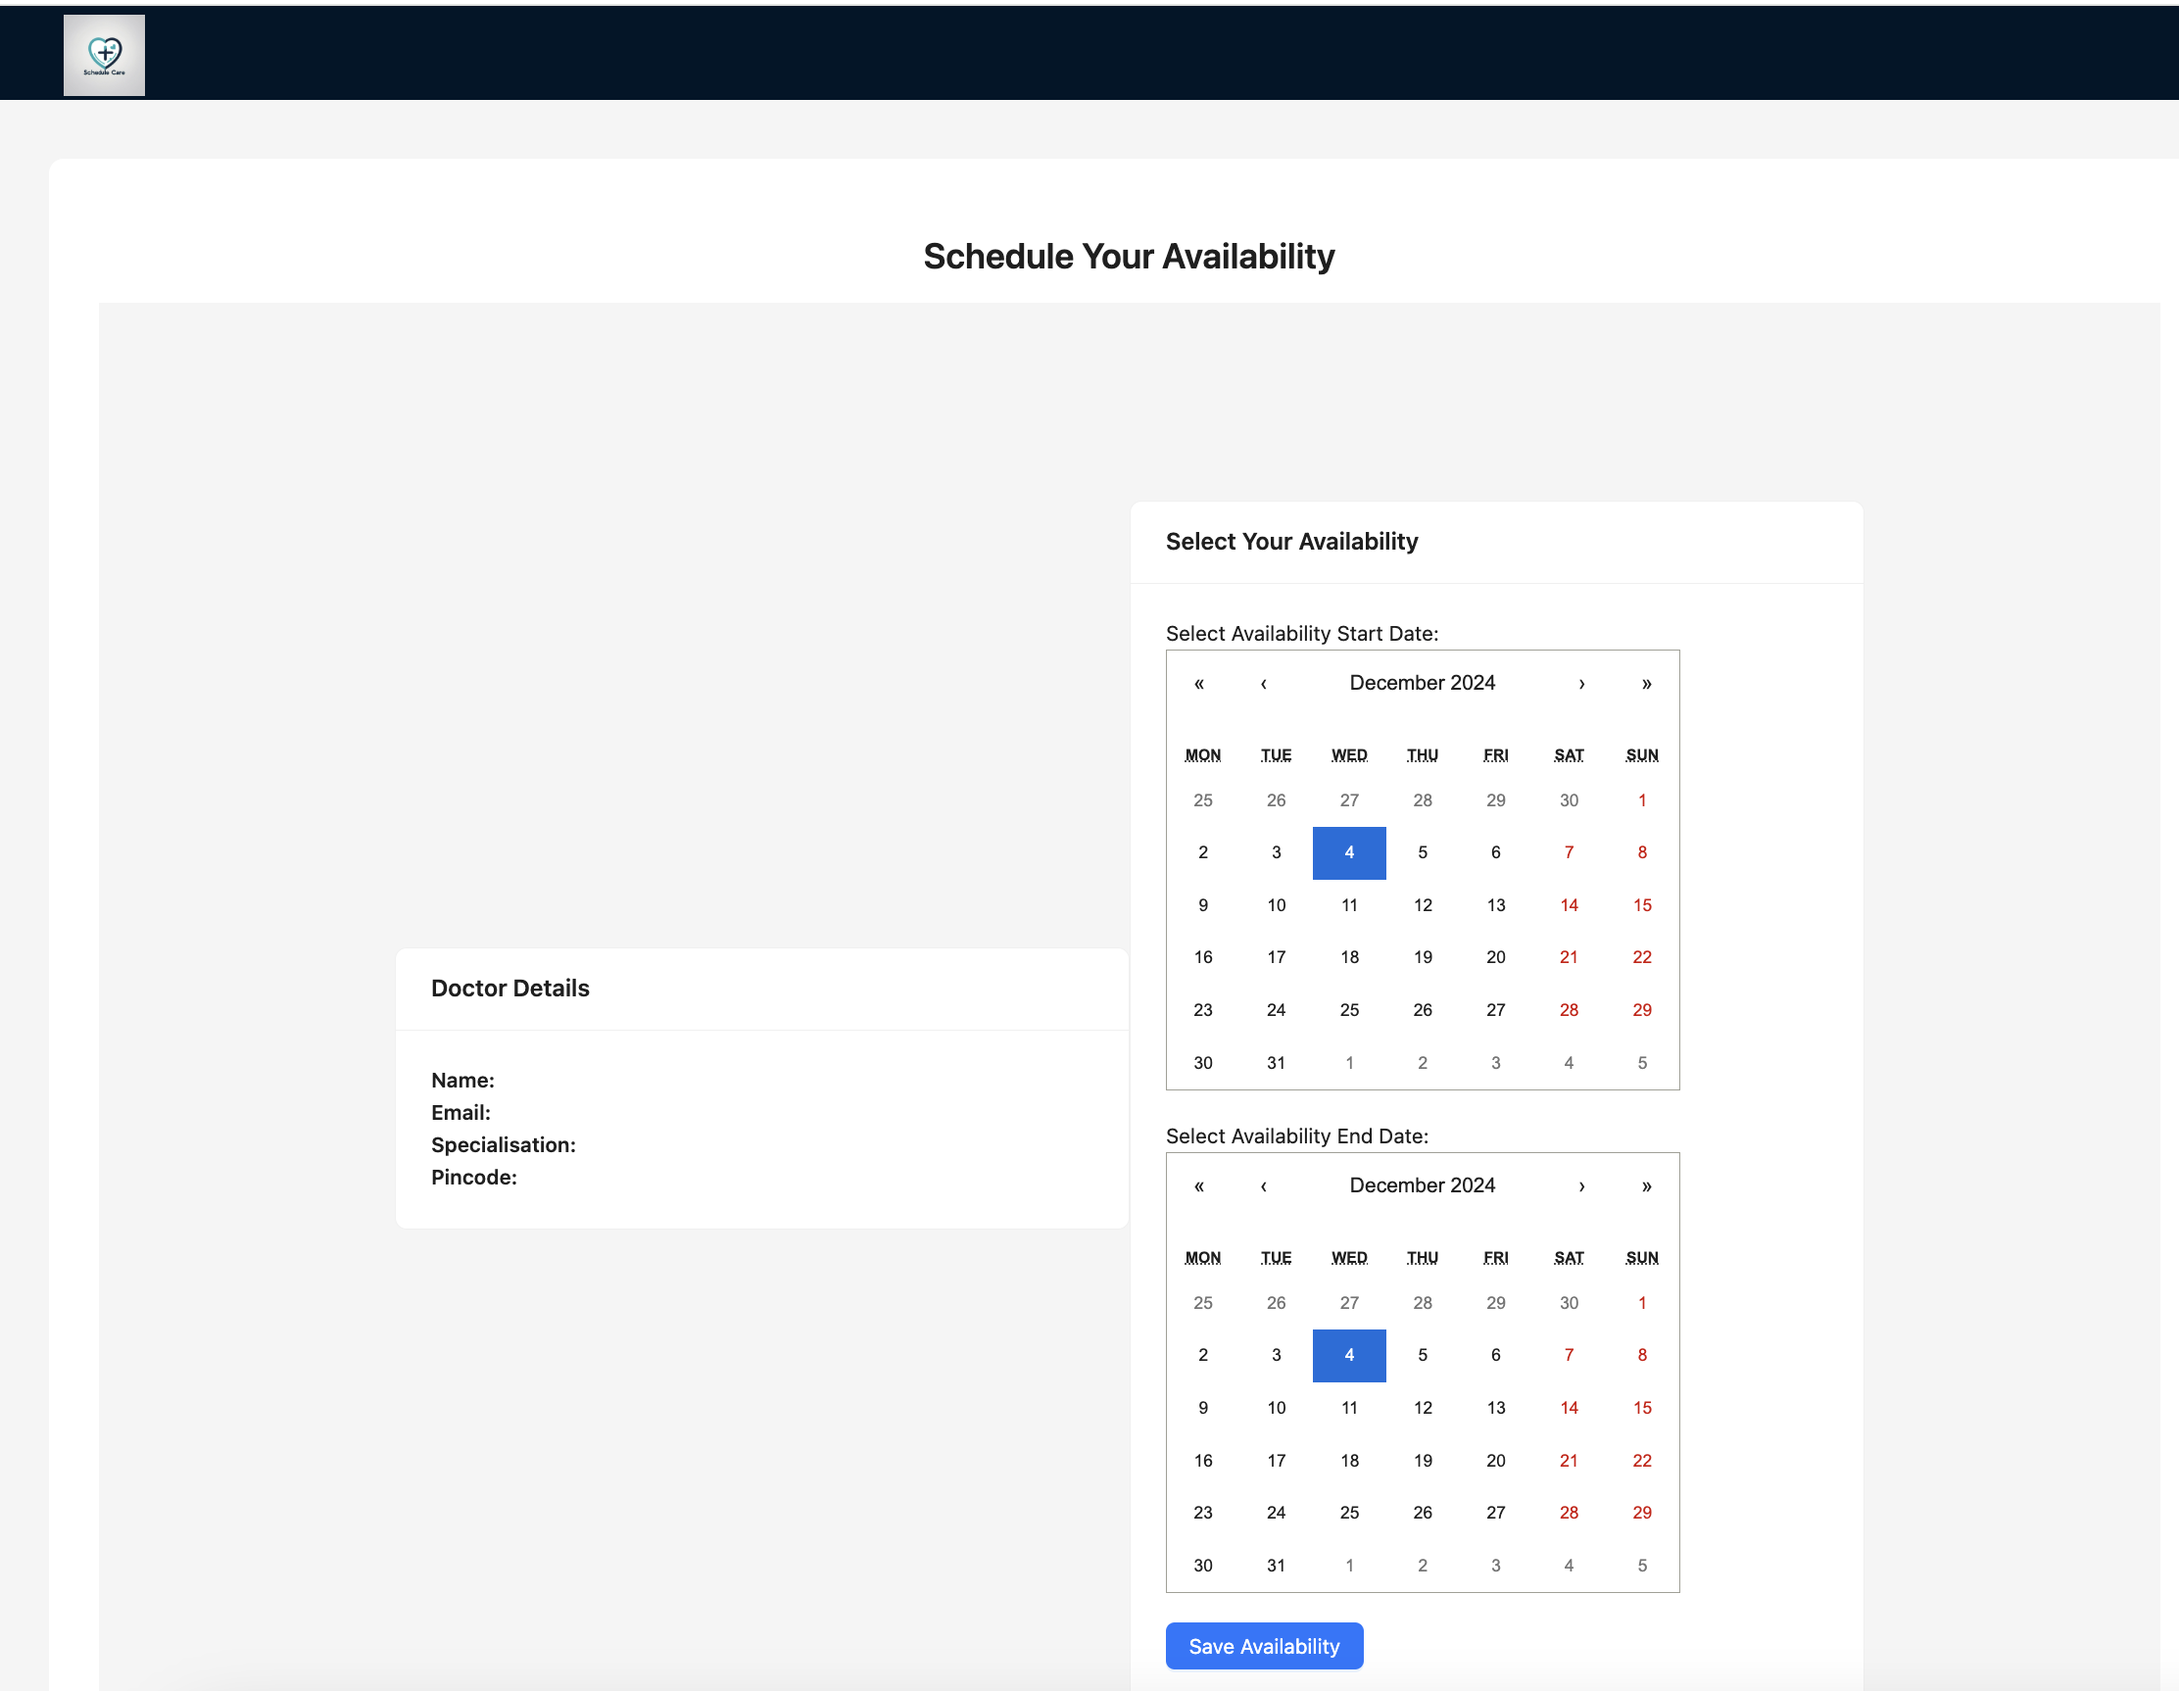
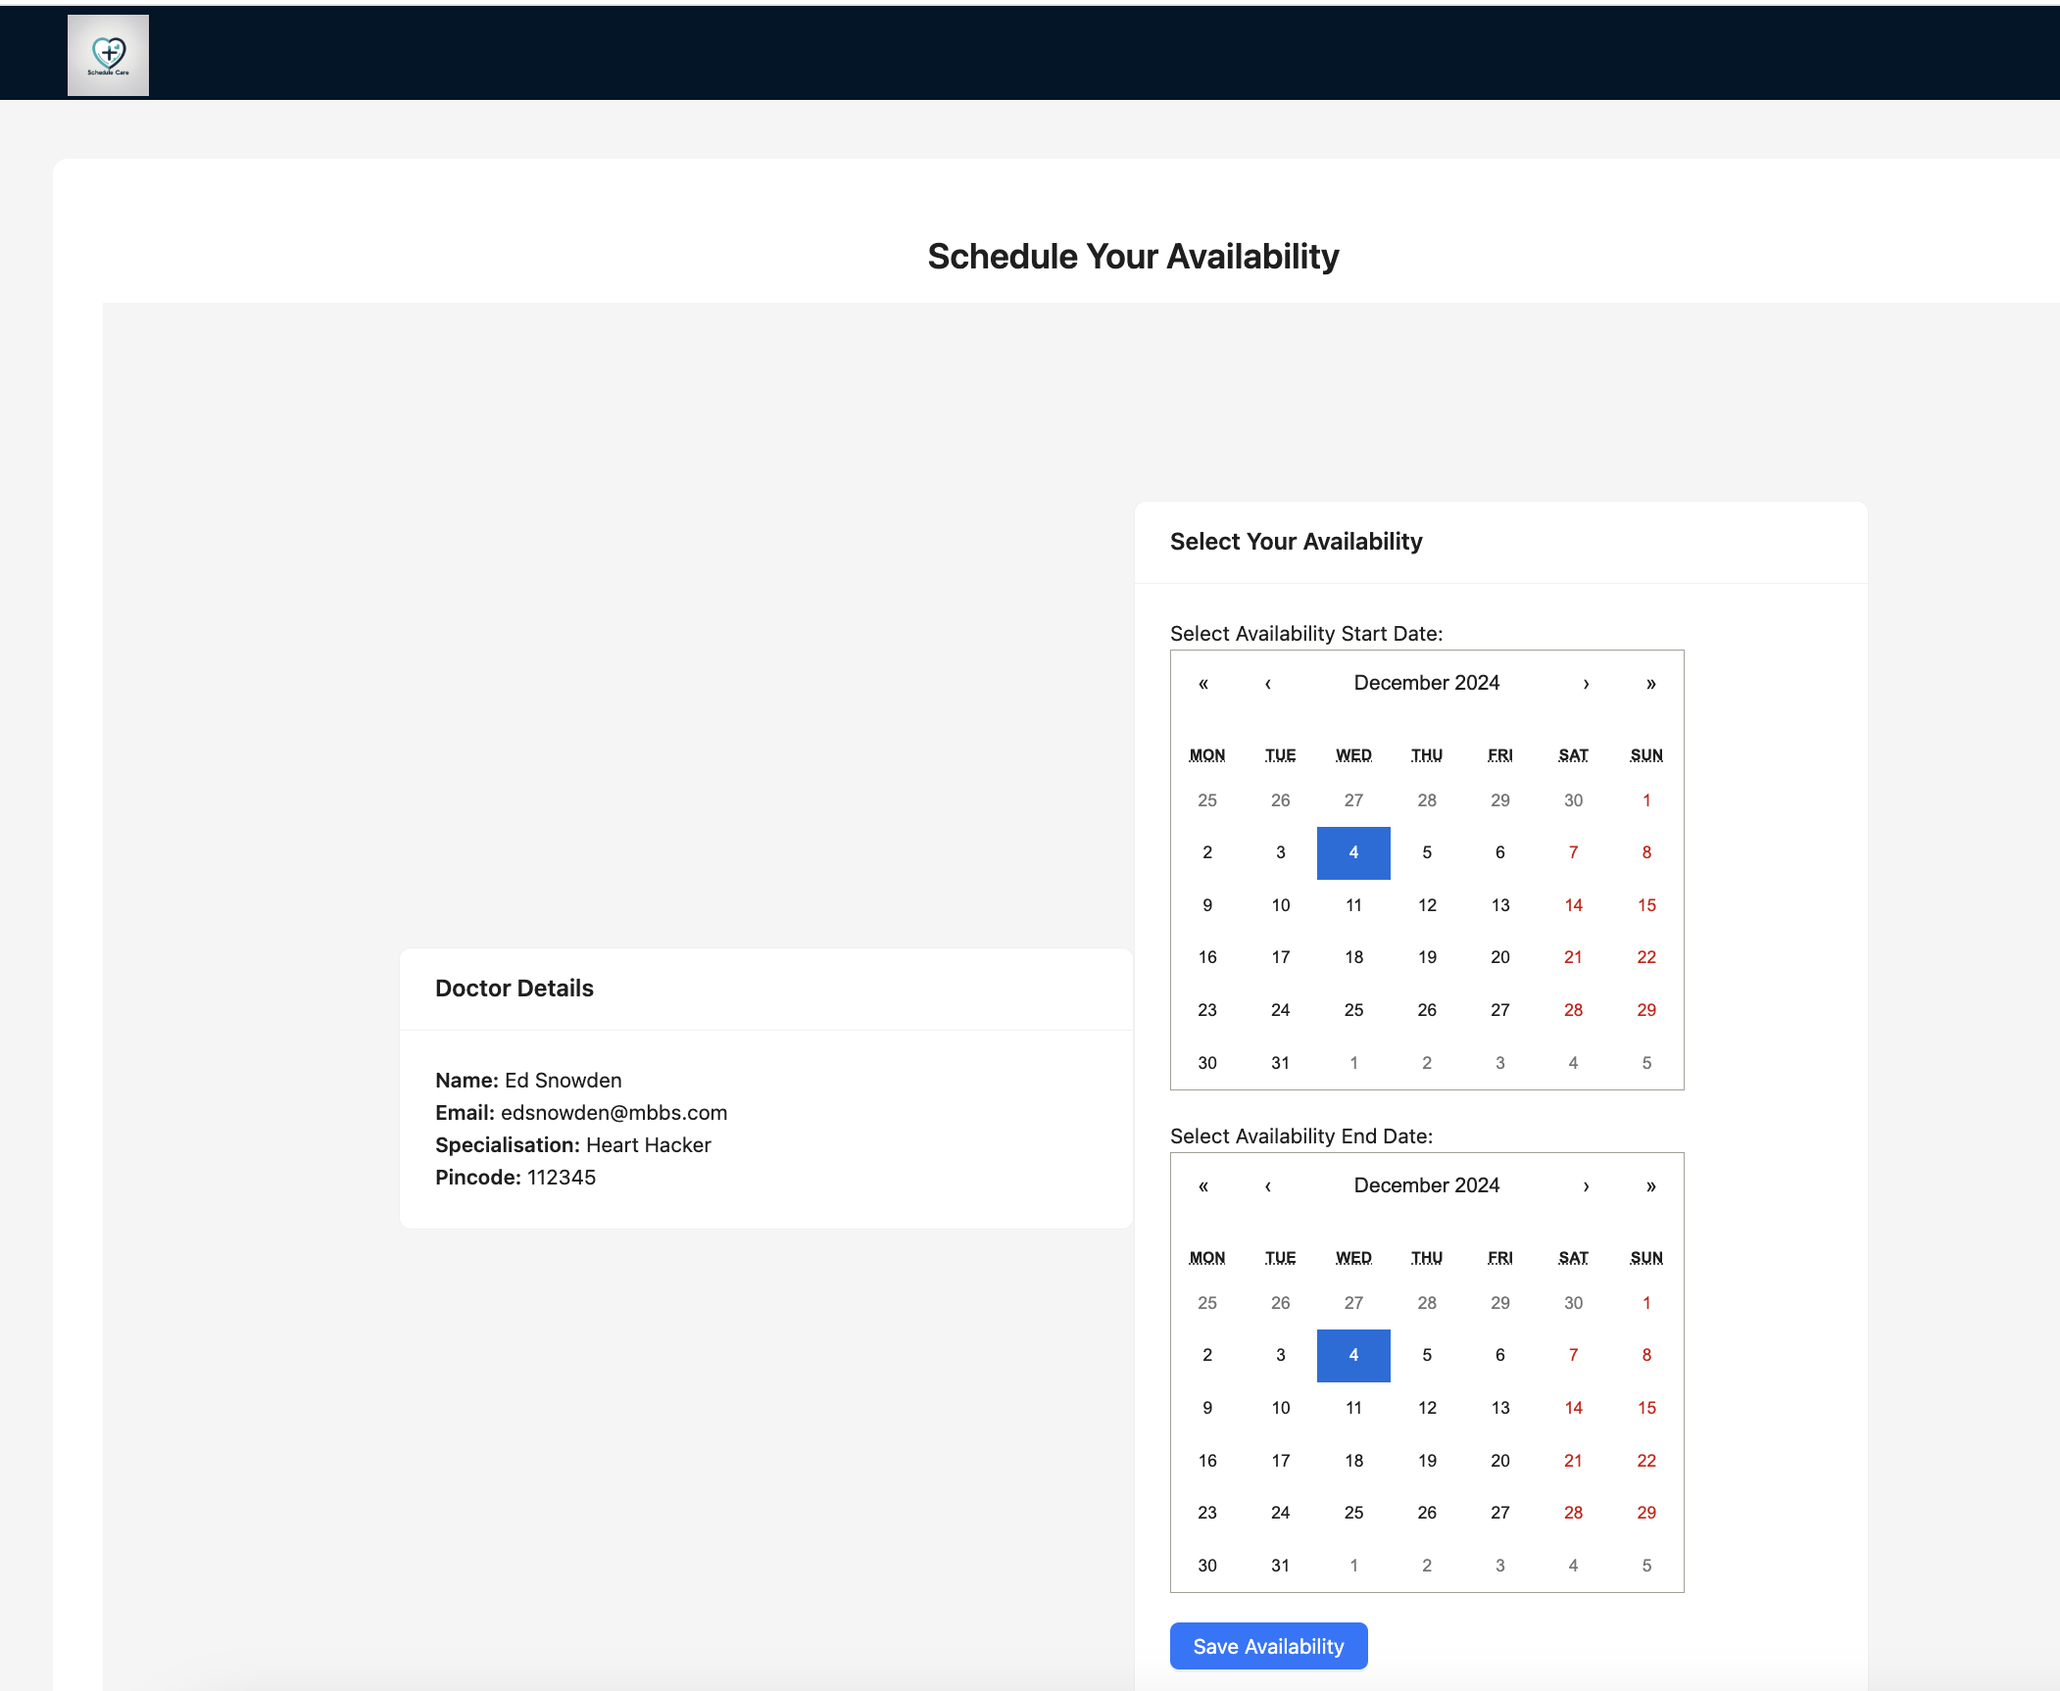
fixing endpoint

diff --git a/client/src/api/endpoint.js b/client/src/api/endpoint.js
@@ -15,5 +15,6 @@ export const ENDPOINTS = {
   chatAssistant: `${API_BASE_URL}/chat/generate`,
   setDoctorAvailability: `${API_BASE_URL}/doctors/doctor/doctorSchedule`,
   sendEmail: `${API_BASE_URL}/email/send-email`,
+  doctorByEmail: (email) => `${API_BASE_URL}/doctors/doctor/${email}`,
   getDoctorByEmail: (email) => `${API_BASE_URL}/doctors/${email}/schedule`,
 };

diff --git a/client/src/api/services/doctorService.js b/client/src/api/services/doctorService.js
@@ -16,7 +16,7 @@ export const addDoctor = async (doctorData) => {
 
 export const fetchDoctorDetails = async (email) => {
   try {
-    const response = await fetch(ENDPOINTS.getDoctorByEmail(email)); 
+    const response = await fetch(ENDPOINTS.doctorByEmail(email)); 
 
     if (!response.ok) {
       throw new Error('Failed to fetch doctor details');
